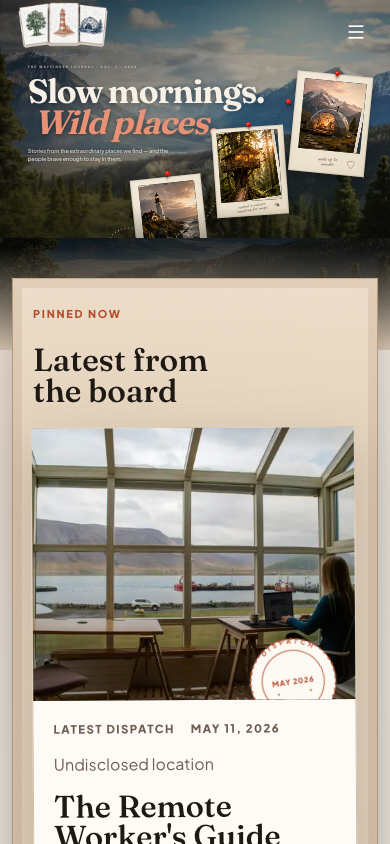
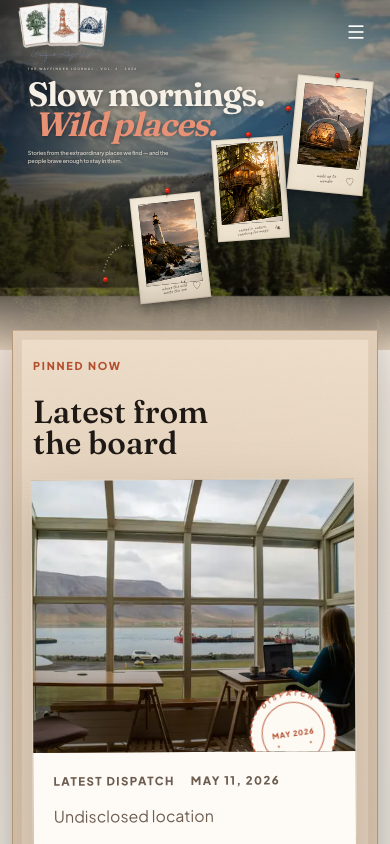
polish(journal): lower board below hero polaroid

diff --git a/src/app/(app)/globals.css b/src/app/(app)/globals.css
@@ -481,7 +481,7 @@
   right: 0;
   bottom: -1px;
   left: 0;
-  z-index: 38;
+  z-index: 0;
   height: clamp(9rem, 14vw, 14rem);
   pointer-events: none;
   background:
@@ -495,22 +495,24 @@ body:has(.journal-hero) nextjs-portal {
 
 .journal-hero__wrap {
   --hero-nav-clearance: clamp(3.25rem, 3.4vw, 3.6rem);
+  --hero-bleed-bottom: clamp(2.15rem, 5cqw, 5rem);
   position: relative;
   z-index: 1;
   width: min(100vw, calc(100svh * 1606 / 979));
   max-width: 1606px;
   aspect-ratio: 1606 / 979;
-  overflow: hidden;
+  padding-bottom: var(--hero-bleed-bottom);
+  overflow: visible;
   container-type: inline-size;
-  background: #162127;
-  box-shadow: 0 1.74cqw 7.47cqw rgba(0, 0, 0, 0.55);
 }
 
 .journal-hero__artboard {
   position: absolute;
-  inset: 0;
-  overflow: hidden;
+  inset: 0 0 calc(-1 * var(--hero-bleed-bottom));
+  overflow: visible;
   isolation: isolate;
+  background: #162127;
+  box-shadow: 0 1.74cqw 7.47cqw rgba(0, 0, 0, 0.55);
 }
 
 .journal-hero__bg {
@@ -1105,7 +1107,7 @@ body:has(.journal-hero) nextjs-portal {
 .journal-board {
   position: relative;
   z-index: 4;
-  margin: clamp(-6.75rem, -7vw, -4.5rem) clamp(0.75rem, 2vw, 2rem) clamp(4rem, 8vw, 7rem);
+  margin: clamp(-2.2rem, -2.6vw, -1.25rem) clamp(0.75rem, 2vw, 2rem) clamp(4rem, 8vw, 7rem);
   padding: clamp(1.75rem, 4.5vw, 4.5rem) clamp(1.25rem, 4vw, 4rem) clamp(1.25rem, 4vw, 4rem);
   background:
     linear-gradient(180deg, oklch(0.91 0.032 74 / 0.98), transparent 11rem),
